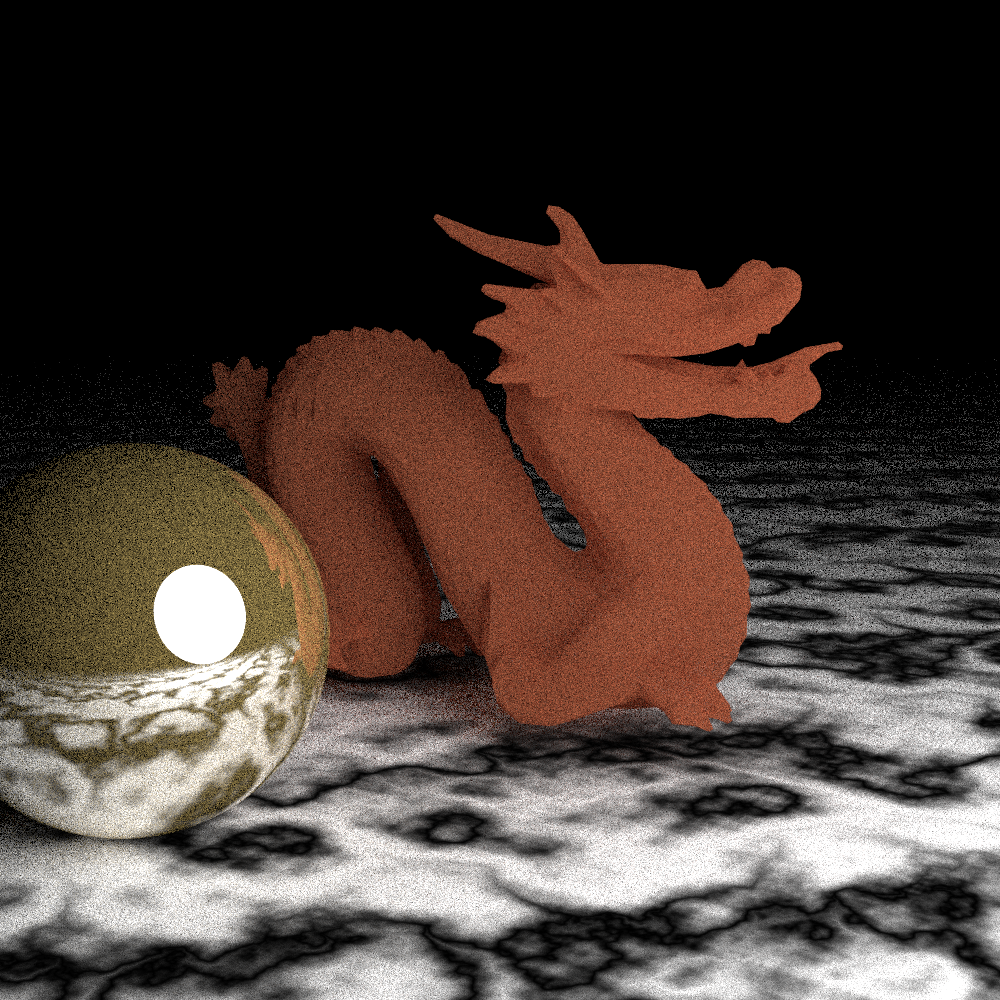
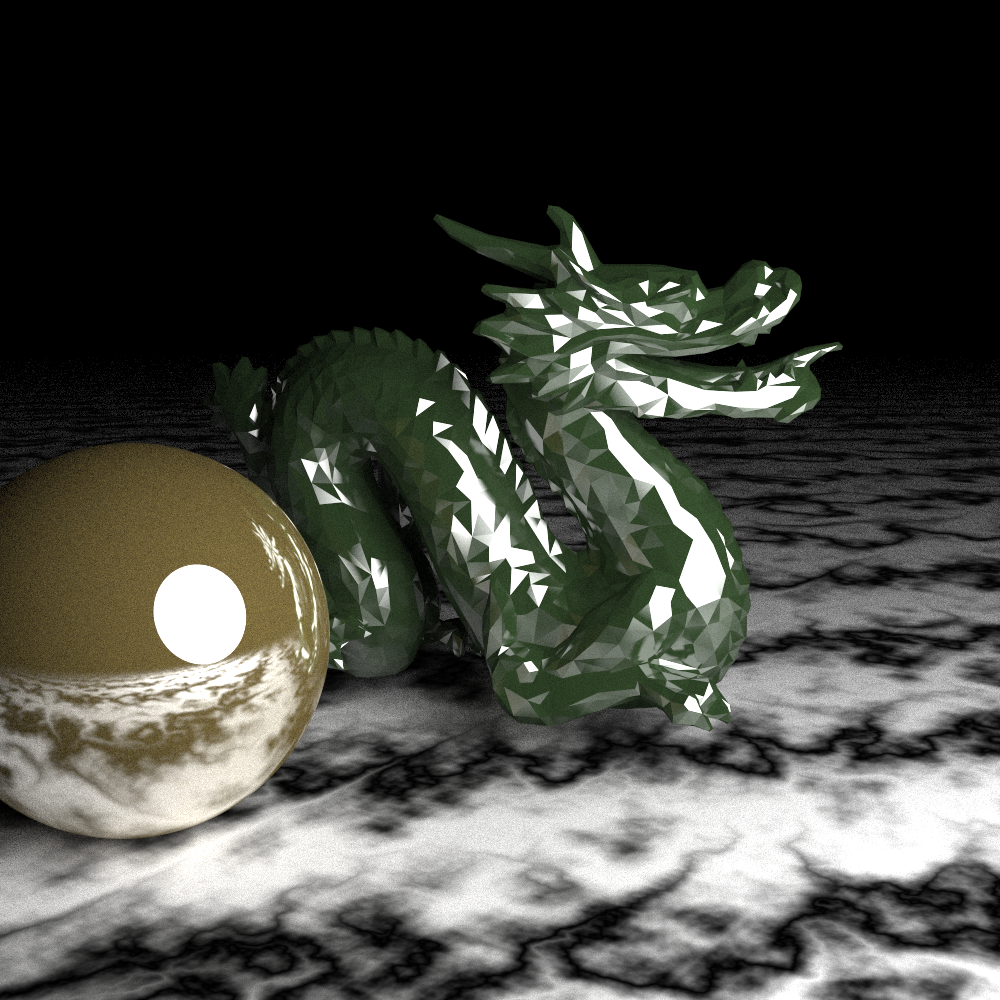
fixing normal calculation for triangle hits

diff --git a/src/hit.rs b/src/hit.rs
@@ -309,6 +309,7 @@ pub struct Triangle {
     ab: V3,
     ac: V3,
     normal: V3,
+    inv_len: f32,
     mat: Material,
     pub bbox: AABBox,
 }
@@ -320,12 +321,14 @@ impl Triangle {
         let ab = b - a;
         let ac = c - a;
         let normal = ab.cross(&ac);
+        let inv_len = 1.0 / normal.length();
 
         Self {
             a,
             ab,
             ac,
             normal,
+            inv_len,
             mat,
             bbox: AABBox::new_enclosing(bbox1, bbox2),
         }
@@ -360,7 +363,15 @@ impl Triangle {
 
         let p = r.at(t);
 
-        Some(HitRecord::new(t, p, self.normal, r, self.mat, u, v))
+        Some(HitRecord::new(
+            t,
+            p,
+            self.normal * self.inv_len,
+            r,
+            self.mat,
+            u,
+            v,
+        ))
     }
 }
 

diff --git a/src/material.rs b/src/material.rs
@@ -229,12 +229,12 @@ fn specular_scatter(
     r_in: &Ray,
     rec: &HitRecord,
 ) -> Option<(Ray, Color)> {
-    let diffuse_dir = (rec.normal + V3::random_unit_vector()).unit_vector();
+    let diffuse_dir = rec.normal + V3::random_unit_vector();
     let is_specular = prob > random_range(0.0..1.0);
     let (dir, color) = if is_specular {
         let specular_dir = r_in.dir.reflect(rec.normal);
         (
-            (diffuse_dir * (1.0 - smoothness) + specular_dir * smoothness).unit_vector(),
+            diffuse_dir * (1.0 - smoothness) + specular_dir * smoothness,
             *spec_albedo,
         )
     } else {
